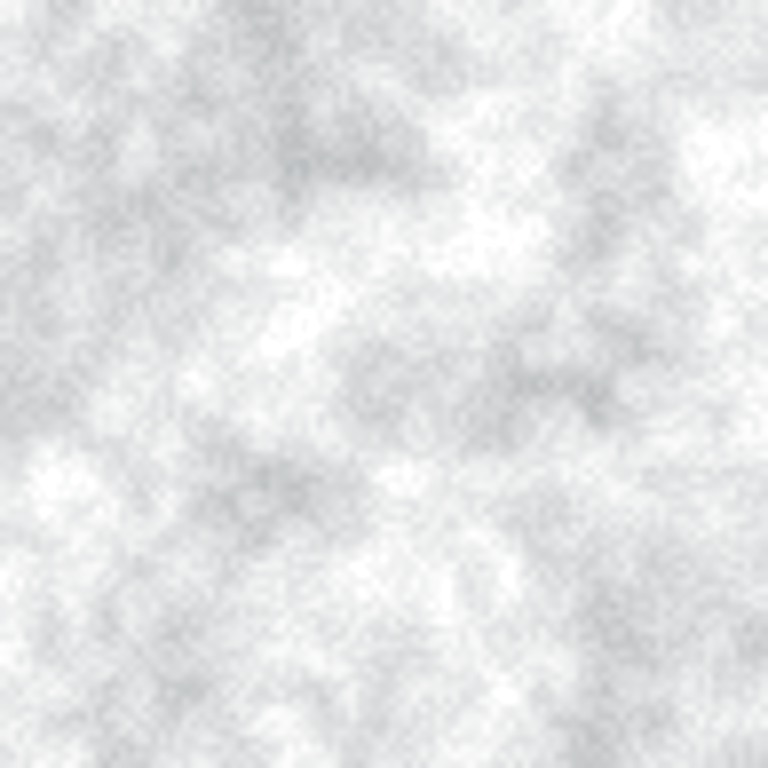
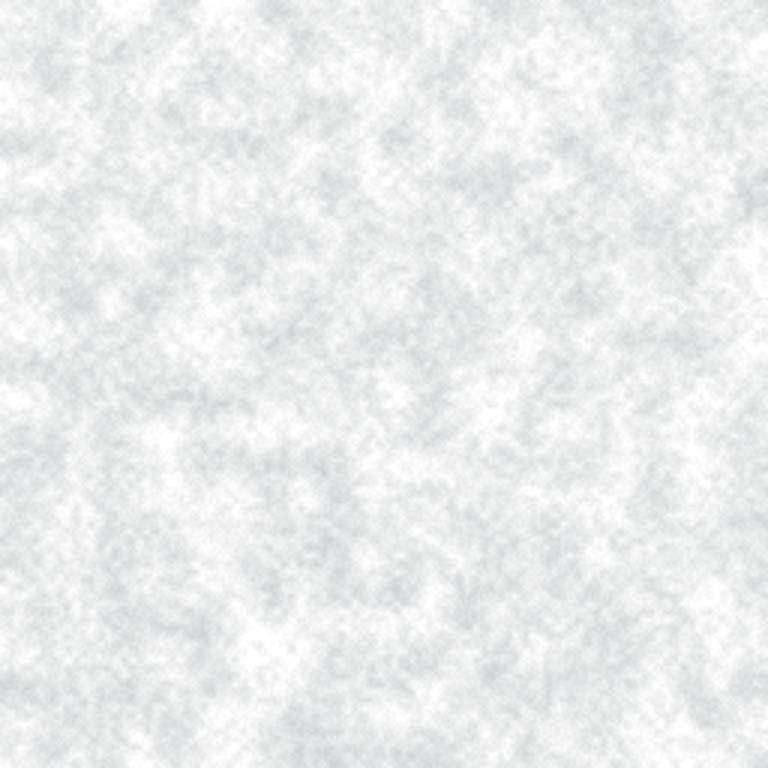
Film : béton plus discret, titres dégagés de la roue, léger mouvement sur le bon de travail
Claude-Session: https://claude.ai/code/session_01LgadPj2Au7qf1MDMapvTph

diff --git a/projet/film/render/film.html b/projet/film/render/film.html
@@ -17,7 +17,7 @@ body{font-family:Instrument,Arial,sans-serif;color:var(--text);-webkit-font-smoo
 .abs{position:absolute;left:0;top:0}
 /* sol de béton (repris du site) */
 #floor{position:absolute;inset:-6%;background:radial-gradient(60% 50% at 66% 52%,#34383c 0%,#25282b 45%,#16181a 100%),#1b1d20;transform-origin:50% 50%}
-#floor::before{content:"";position:absolute;inset:0;opacity:.5;background-image:url(file:///home/user/SITE-WEB-MECANIQUE-SLK/projet/film/render/concrete.png);background-size:520px 520px}
+#floor::before{content:"";position:absolute;inset:0;opacity:.32;background-image:url(file:///home/user/SITE-WEB-MECANIQUE-SLK/projet/film/render/concrete.png);background-size:640px 640px}
 #line{position:absolute;left:50%;top:50%;width:260%;height:34px;margin:-17px 0 0 -130%;background:linear-gradient(90deg,rgba(245,180,0,.92),rgba(245,180,0,.78) 40%,rgba(230,168,10,.94));box-shadow:0 0 40px rgba(245,180,0,.14);transform-origin:50% 50%}
 #pool{position:absolute;inset:0;background:radial-gradient(30% 38% at 66% 50%,rgba(255,206,120,.22),rgba(255,206,120,.06) 50%,transparent 75%),linear-gradient(90deg,rgba(90,125,160,.14),transparent 45%)}
 .wrap{position:absolute;left:0;top:0;width:600px;height:600px;transform-origin:0 0}
@@ -38,7 +38,7 @@ body{font-family:Instrument,Arial,sans-serif;color:var(--text);-webkit-font-smoo
 .kick{font:500 22px/1 "Plex Mono";letter-spacing:.2em;text-transform:uppercase;color:#C8CDD2;display:flex;align-items:center;gap:16px}
 .kick::before{content:"";width:40px;height:2px;border-radius:2px;background:linear-gradient(90deg,var(--gold-hi),var(--gold))}
 .big{font:760 150px/.92 Archivo;letter-spacing:-.045em}
-.mid{font:740 112px/1 Archivo;letter-spacing:-.04em}
+.mid{font:740 100px/1 Archivo;letter-spacing:-.04em}
 .sub{font:400 38px/1.3 Instrument;color:#D7DBDE}
 .rule{position:absolute;height:5px;border-radius:5px;background:linear-gradient(90deg,var(--gold-hi),var(--gold-lo));transform-origin:0 50%;transform:scaleX(0)}
 .man{font:760 132px/1 Archivo;letter-spacing:-.045em}
@@ -335,7 +335,7 @@ const S = {
   general(t, d, T) {         // inspection : lampe + repères
     const b = baseWheel();
     floor(1, 1);
-    const size = b.size * (V ? .9 : .9), cx = b.cx + (V ? 0 : W * .07), cy = b.cy;
+    const size = b.size * (V ? .9 : .84), cx = V ? b.cx : W * .775, cy = b.cy;
     wheel('wheelA', cx, cy, size, -8 - T * 6.3 * .6);
     $('veil').style.opacity = 1; $('pins').style.opacity = 1;
     const p = clamp(t / (d * .9));
@@ -366,9 +366,9 @@ const S = {
     const b = baseWheel();
     floor(1, 1, 1, 0);
     $('wheelA').style.opacity = 0;
-    const size = b.size * .95;
+    const size = b.size * (V ? .95 : .86);
     const k = eo(ramp(t, 0, 1.6));
-    const x0 = V ? W + size : W + size * .7, x1 = b.cx + (V ? 0 : W * .02);
+    const x0 = V ? W + size : W + size * .7, x1 = V ? b.cx : W * .775;
     const cx = lerp(x0, x1, k) - (V ? 0 : t * 6);
     const rot = -((cx - x1) / (size / 2)) * 57.3 - t * 14;   // roulement cohérent
     wheel('wheelB', cx, b.cy, size, rot);
@@ -378,7 +378,7 @@ const S = {
   manifest(t, d, T) {
     const b = baseWheel();
     floor(1.05, 1);
-    wheel('wheelA', b.cx + (V ? 0 : W * .06), b.cy, b.size * 1.18, -8 - T * 6.3 * .5);
+    wheel('wheelA', V ? b.cx : W * .8, b.cy, b.size * 1.18, -8 - T * 6.3 * .5);
     $('veil').style.opacity = 1; $('shade').style.opacity = .42;
     const x = TX(), y = V ? H * .52 : H * .22, gap = V ? 128 : 150;
     ['m1', 'm2', 'm3'].forEach((id, i) => {
@@ -396,7 +396,7 @@ const S = {
     const sx = V ? (W - 640) / 2 : W * .58, sy = V ? H * .12 : H * .2;
     slip.style.left = sx + 'px'; slip.style.top = sy + 'px';
     slip.style.opacity = k;
-    slip.style.transform = `translateY(${(1 - k) * 90}px) rotate(${lerp(-6, -1.6, k)}deg)${V ? ' scale(1.05)' : ''}`;
+    slip.style.transform = `translateY(${(1 - k) * 90 - t * 6}px) rotate(${lerp(-6, -1.6, k) + t * .25}deg) scale(${(V ? 1.05 : 1) * (1 + t * .006)})`;
     slip.querySelectorAll('.slip__bar').forEach((bar, i) => { bar.style.transform = `scaleX(${eo(ramp(t, .9 + i * .35, 1.3 + i * .35)) * [0.92, 0.78, 0.6, 0.7][i]})`; });
     const st = $('stamp'), sk = ramp(t, 2.6, 2.9);
     st.style.opacity = sk > 0 ? .95 : 0; st.style.transform = `rotate(-14deg) scale(${lerp(2, 1, eexp(sk))})`;

diff --git a/projet/film/render/film.src.html b/projet/film/render/film.src.html
@@ -17,7 +17,7 @@ body{font-family:Instrument,Arial,sans-serif;color:var(--text);-webkit-font-smoo
 .abs{position:absolute;left:0;top:0}
 /* sol de béton (repris du site) */
 #floor{position:absolute;inset:-6%;background:radial-gradient(60% 50% at 66% 52%,#34383c 0%,#25282b 45%,#16181a 100%),#1b1d20;transform-origin:50% 50%}
-#floor::before{content:"";position:absolute;inset:0;opacity:.5;background-image:url(RENDER/concrete.png);background-size:520px 520px}
+#floor::before{content:"";position:absolute;inset:0;opacity:.32;background-image:url(RENDER/concrete.png);background-size:640px 640px}
 #line{position:absolute;left:50%;top:50%;width:260%;height:34px;margin:-17px 0 0 -130%;background:linear-gradient(90deg,rgba(245,180,0,.92),rgba(245,180,0,.78) 40%,rgba(230,168,10,.94));box-shadow:0 0 40px rgba(245,180,0,.14);transform-origin:50% 50%}
 #pool{position:absolute;inset:0;background:radial-gradient(30% 38% at 66% 50%,rgba(255,206,120,.22),rgba(255,206,120,.06) 50%,transparent 75%),linear-gradient(90deg,rgba(90,125,160,.14),transparent 45%)}
 .wrap{position:absolute;left:0;top:0;width:600px;height:600px;transform-origin:0 0}
@@ -38,7 +38,7 @@ body{font-family:Instrument,Arial,sans-serif;color:var(--text);-webkit-font-smoo
 .kick{font:500 22px/1 "Plex Mono";letter-spacing:.2em;text-transform:uppercase;color:#C8CDD2;display:flex;align-items:center;gap:16px}
 .kick::before{content:"";width:40px;height:2px;border-radius:2px;background:linear-gradient(90deg,var(--gold-hi),var(--gold))}
 .big{font:760 150px/.92 Archivo;letter-spacing:-.045em}
-.mid{font:740 112px/1 Archivo;letter-spacing:-.04em}
+.mid{font:740 100px/1 Archivo;letter-spacing:-.04em}
 .sub{font:400 38px/1.3 Instrument;color:#D7DBDE}
 .rule{position:absolute;height:5px;border-radius:5px;background:linear-gradient(90deg,var(--gold-hi),var(--gold-lo));transform-origin:0 50%;transform:scaleX(0)}
 .man{font:760 132px/1 Archivo;letter-spacing:-.045em}
@@ -237,7 +237,7 @@ const S = {
   general(t, d, T) {         // inspection : lampe + repères
     const b = baseWheel();
     floor(1, 1);
-    const size = b.size * (V ? .9 : .9), cx = b.cx + (V ? 0 : W * .07), cy = b.cy;
+    const size = b.size * (V ? .9 : .84), cx = V ? b.cx : W * .775, cy = b.cy;
     wheel('wheelA', cx, cy, size, -8 - T * 6.3 * .6);
     $('veil').style.opacity = 1; $('pins').style.opacity = 1;
     const p = clamp(t / (d * .9));
@@ -268,9 +268,9 @@ const S = {
     const b = baseWheel();
     floor(1, 1, 1, 0);
     $('wheelA').style.opacity = 0;
-    const size = b.size * .95;
+    const size = b.size * (V ? .95 : .86);
     const k = eo(ramp(t, 0, 1.6));
-    const x0 = V ? W + size : W + size * .7, x1 = b.cx + (V ? 0 : W * .02);
+    const x0 = V ? W + size : W + size * .7, x1 = V ? b.cx : W * .775;
     const cx = lerp(x0, x1, k) - (V ? 0 : t * 6);
     const rot = -((cx - x1) / (size / 2)) * 57.3 - t * 14;   // roulement cohérent
     wheel('wheelB', cx, b.cy, size, rot);
@@ -280,7 +280,7 @@ const S = {
   manifest(t, d, T) {
     const b = baseWheel();
     floor(1.05, 1);
-    wheel('wheelA', b.cx + (V ? 0 : W * .06), b.cy, b.size * 1.18, -8 - T * 6.3 * .5);
+    wheel('wheelA', V ? b.cx : W * .8, b.cy, b.size * 1.18, -8 - T * 6.3 * .5);
     $('veil').style.opacity = 1; $('shade').style.opacity = .42;
     const x = TX(), y = V ? H * .52 : H * .22, gap = V ? 128 : 150;
     ['m1', 'm2', 'm3'].forEach((id, i) => {
@@ -298,7 +298,7 @@ const S = {
     const sx = V ? (W - 640) / 2 : W * .58, sy = V ? H * .12 : H * .2;
     slip.style.left = sx + 'px'; slip.style.top = sy + 'px';
     slip.style.opacity = k;
-    slip.style.transform = `translateY(${(1 - k) * 90}px) rotate(${lerp(-6, -1.6, k)}deg)${V ? ' scale(1.05)' : ''}`;
+    slip.style.transform = `translateY(${(1 - k) * 90 - t * 6}px) rotate(${lerp(-6, -1.6, k) + t * .25}deg) scale(${(V ? 1.05 : 1) * (1 + t * .006)})`;
     slip.querySelectorAll('.slip__bar').forEach((bar, i) => { bar.style.transform = `scaleX(${eo(ramp(t, .9 + i * .35, 1.3 + i * .35)) * [0.92, 0.78, 0.6, 0.7][i]})`; });
     const st = $('stamp'), sk = ramp(t, 2.6, 2.9);
     st.style.opacity = sk > 0 ? .95 : 0; st.style.transform = `rotate(-14deg) scale(${lerp(2, 1, eexp(sk))})`;
